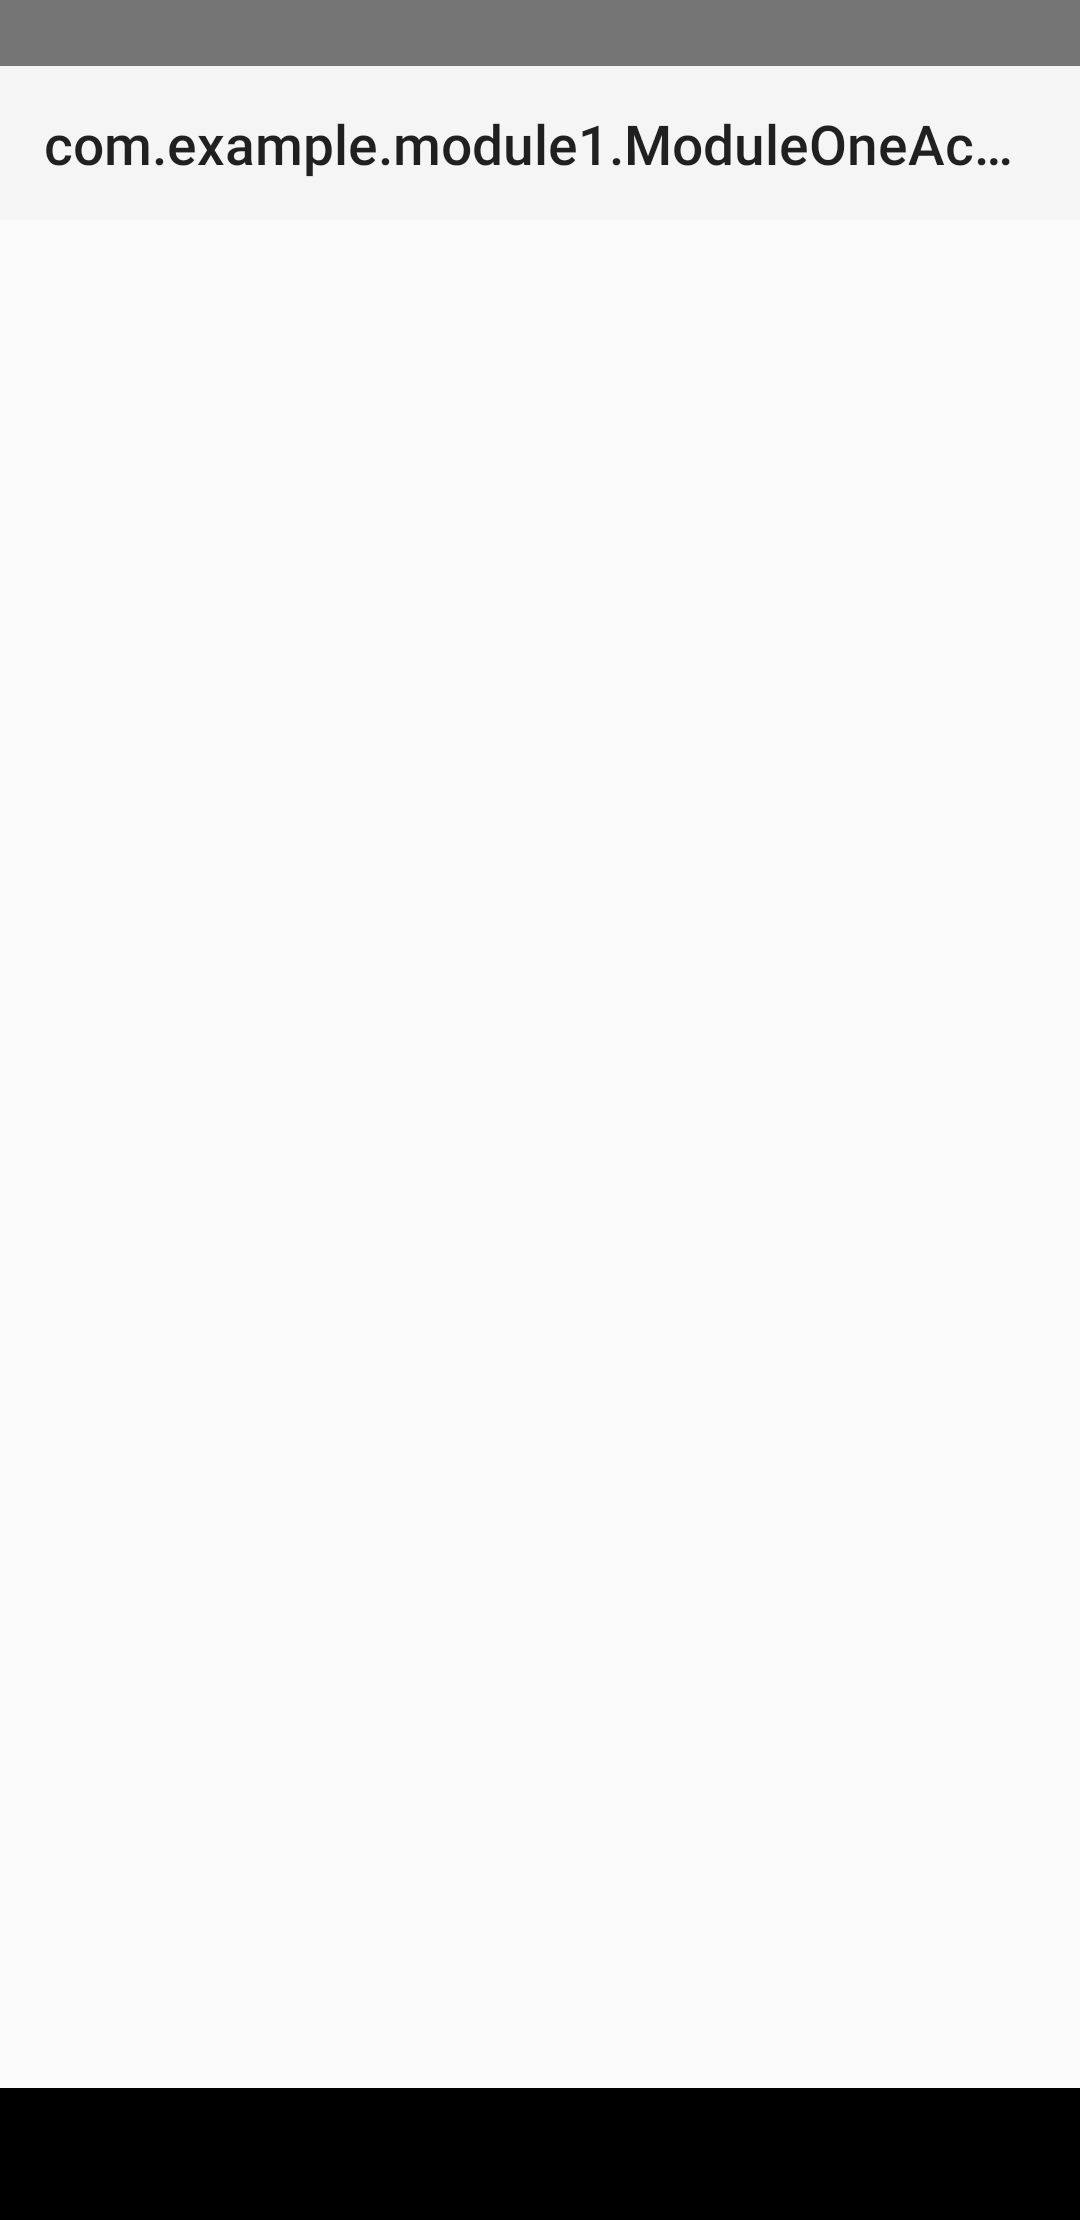
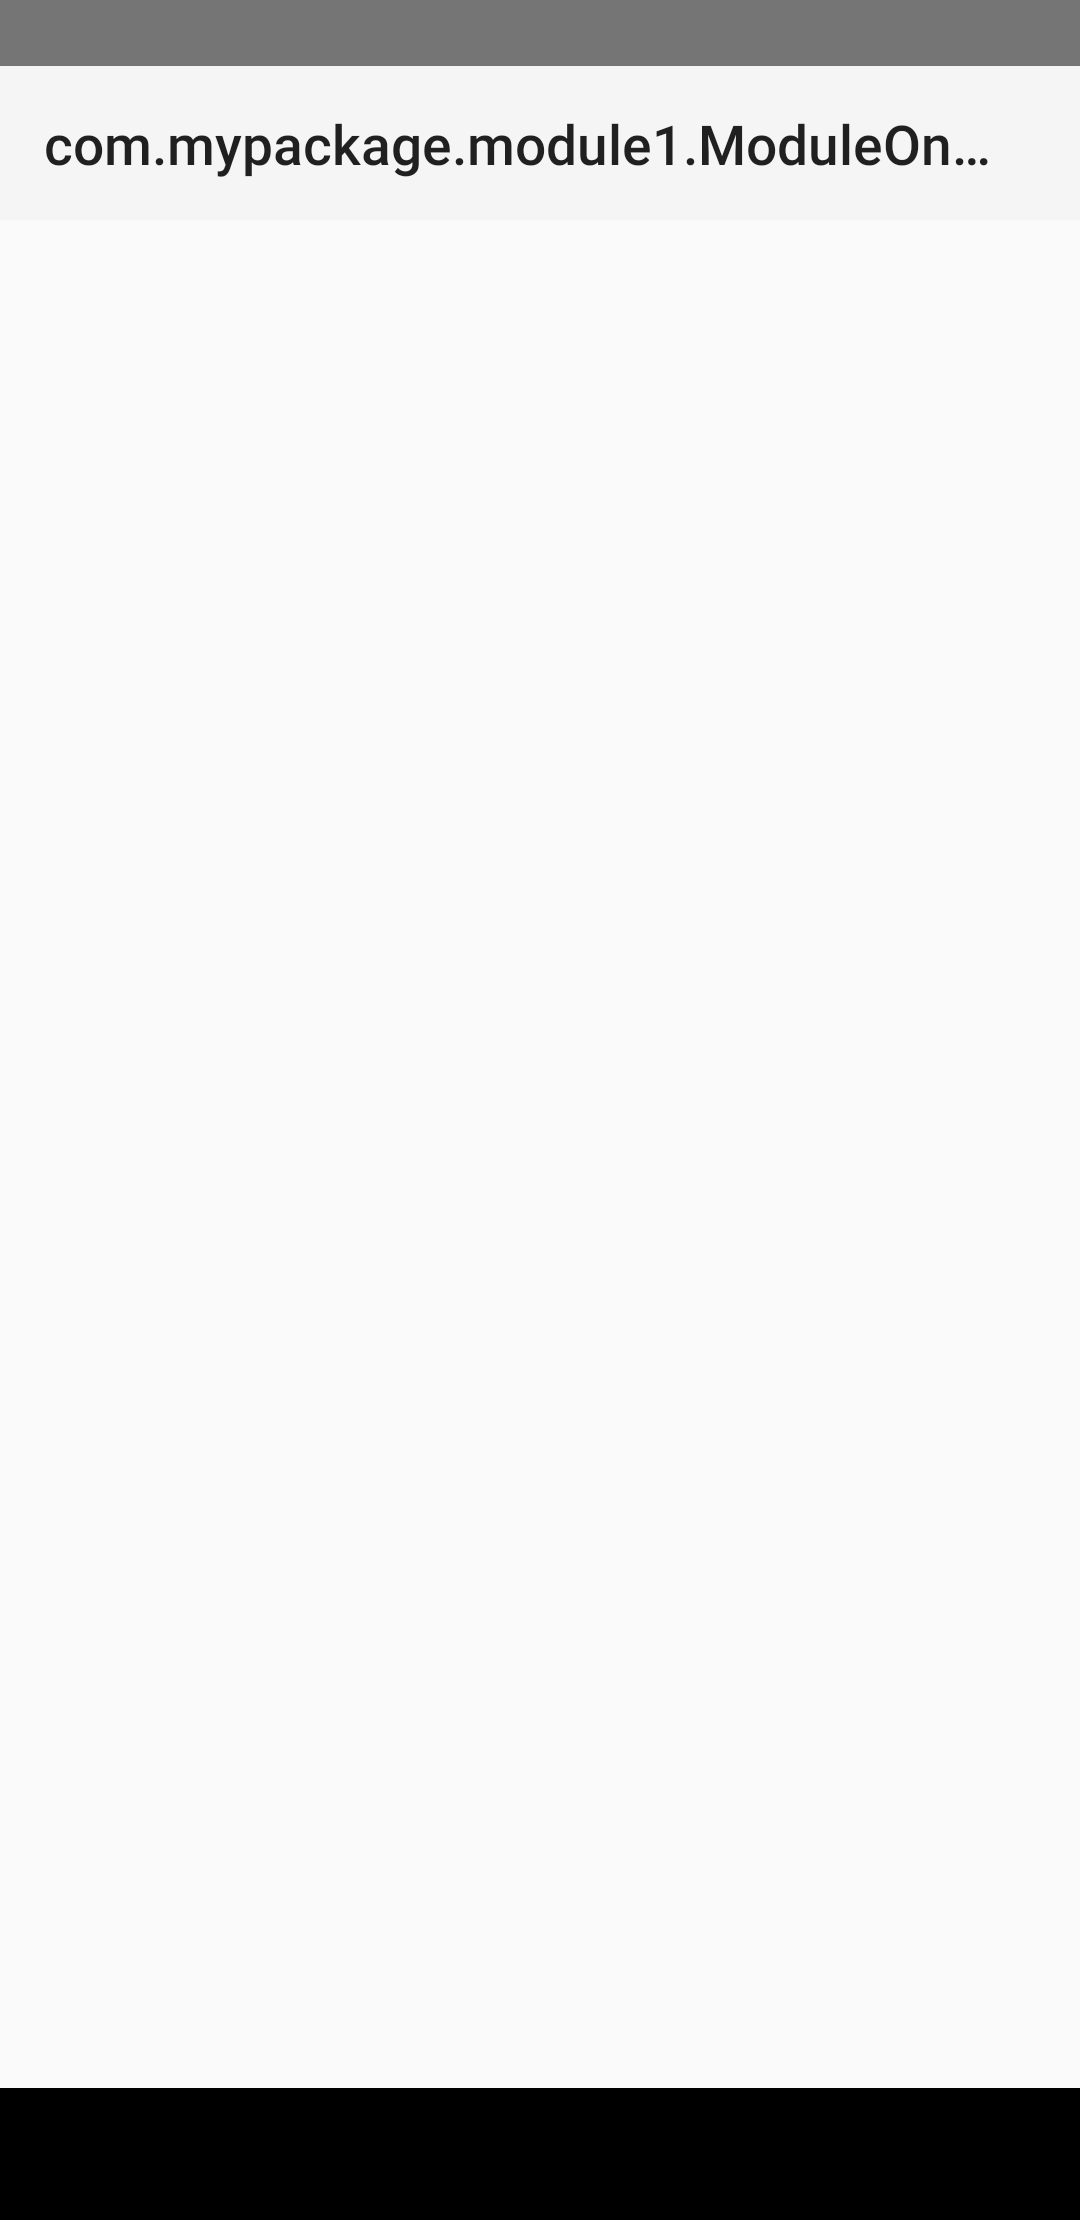
Rename to mypackage

Changed region(s): [[0.1528, 0.0311, 0.9167, 0.0932]]

diff --git a/app/src/androidTest/java/com/mypackage/mypackage/ExampleInstrumentedTest.kt b/app/src/androidTest/java/com/mypackage/mypackage/ExampleInstrumentedTest.kt
@@ -1,6 +1,7 @@
-package com.example.module1
+package com.mypackage.mypackage
 
 import androidx.test.ext.junit.runners.AndroidJUnit4
+import com.mypackage.MainActivity
 import dev.testify.ScreenshotRule
 import dev.testify.annotation.ScreenshotInstrumentation
 import org.junit.Assert.*
@@ -12,11 +13,11 @@ import org.junit.runner.RunWith
 class ExampleInstrumentedTest {
 
     @get:Rule
-    val rule = ScreenshotRule(ModuleOneActivity::class.java)
+    val rule = ScreenshotRule(MainActivity::class.java)
 
     @ScreenshotInstrumentation
     @Test
-    fun moduleOne() {
+    fun app() {
         rule.assertSame()
     }
 }

diff --git a/app/src/main/java/com/mypackage/MainActivity.kt b/app/src/main/java/com/mypackage/MainActivity.kt
@@ -1,4 +1,4 @@
-package com.example.android_mypackage
+package com.mypackage
 
 import android.os.Bundle
 import androidx.activity.ComponentActivity
@@ -10,7 +10,7 @@ import androidx.compose.material3.Text
 import androidx.compose.runtime.Composable
 import androidx.compose.ui.Modifier
 import androidx.compose.ui.tooling.preview.Preview
-import com.example.android_mypackage.ui.theme.AndroidmypackageTheme
+import com.mypackage.ui.theme.AndroidmypackageTheme
 
 class MainActivity : ComponentActivity() {
     override fun onCreate(savedInstanceState: Bundle?) {

diff --git a/appfeatures/module2/src/androidTest/java/com/mypackage/module2/ExampleInstrumentedTest.kt b/appfeatures/module2/src/androidTest/java/com/mypackage/module2/ExampleInstrumentedTest.kt
@@ -1,4 +1,4 @@
-package com.example.appfeatures
+package com.mypackage.module2
 
 import androidx.test.ext.junit.runners.AndroidJUnit4
 import dev.testify.ScreenshotRule
@@ -12,11 +12,11 @@ import org.junit.runner.RunWith
 class ExampleInstrumentedTest {
 
     @get:Rule
-    val rule = ScreenshotRule(AppFeatureActivity::class.java)
+    val rule = ScreenshotRule(ModuleTwoActivity::class.java)
 
     @ScreenshotInstrumentation
     @Test
-    fun appFeatures() {
+    fun moduleTwo() {
         rule.assertSame()
     }
 }

diff --git a/appfeatures/src/androidTest/java/com/mypackage/appfeatures/ExampleInstrumentedTest.kt b/appfeatures/src/androidTest/java/com/mypackage/appfeatures/ExampleInstrumentedTest.kt
@@ -1,4 +1,4 @@
-package com.example.module2
+package com.mypackage.appfeatures
 
 import androidx.test.ext.junit.runners.AndroidJUnit4
 import dev.testify.ScreenshotRule
@@ -12,11 +12,11 @@ import org.junit.runner.RunWith
 class ExampleInstrumentedTest {
 
     @get:Rule
-    val rule = ScreenshotRule(ModuleTwoActivity::class.java)
+    val rule = ScreenshotRule(AppFeatureActivity::class.java)
 
     @ScreenshotInstrumentation
     @Test
-    fun moduleTwo() {
+    fun appFeatures() {
         rule.assertSame()
     }
 }

diff --git a/appfeatures/module1/src/androidTest/java/com/mypackage/module1/ExampleInstrumentedTest.kt b/appfeatures/module1/src/androidTest/java/com/mypackage/module1/ExampleInstrumentedTest.kt
@@ -1,4 +1,4 @@
-package com.example.android_mypackage
+package com.mypackage.module1
 
 import androidx.test.ext.junit.runners.AndroidJUnit4
 import dev.testify.ScreenshotRule
@@ -12,11 +12,11 @@ import org.junit.runner.RunWith
 class ExampleInstrumentedTest {
 
     @get:Rule
-    val rule = ScreenshotRule(MainActivity::class.java)
+    val rule = ScreenshotRule(ModuleOneActivity::class.java)
 
     @ScreenshotInstrumentation
     @Test
-    fun app() {
+    fun moduleOne() {
         rule.assertSame()
     }
 }

diff --git a/appfeatures/module1/src/main/java/com/mypackage/module1/ModuleOneActivity.kt b/appfeatures/module1/src/main/java/com/mypackage/module1/ModuleOneActivity.kt
@@ -1,7 +1,7 @@
-package com.example.module1
+package com.mypackage.module1
 
-import androidx.appcompat.app.AppCompatActivity
 import android.os.Bundle
+import androidx.appcompat.app.AppCompatActivity
 
 class ModuleOneActivity : AppCompatActivity() {
     override fun onCreate(savedInstanceState: Bundle?) {

diff --git a/appfeatures/module2/src/main/java/com/mypackage/module2/ModuleTwoActivity.kt b/appfeatures/module2/src/main/java/com/mypackage/module2/ModuleTwoActivity.kt
@@ -1,7 +1,7 @@
-package com.example.module2
+package com.mypackage.module2
 
-import androidx.appcompat.app.AppCompatActivity
 import android.os.Bundle
+import androidx.appcompat.app.AppCompatActivity
 
 class ModuleTwoActivity : AppCompatActivity() {
     override fun onCreate(savedInstanceState: Bundle?) {

diff --git a/app/src/main/java/com/mypackage/ui/theme/Type.kt b/app/src/main/java/com/mypackage/ui/theme/Type.kt
@@ -1,4 +1,4 @@
-package com.example.android_mypackage.ui.theme
+package com.mypackage.ui.theme
 
 import androidx.compose.material3.Typography
 import androidx.compose.ui.text.TextStyle

diff --git a/appfeatures/src/main/java/com/mypackage/appfeatures/AppFeatureActivity.kt b/appfeatures/src/main/java/com/mypackage/appfeatures/AppFeatureActivity.kt
@@ -1,4 +1,4 @@
-package com.example.appfeatures
+package com.mypackage.appfeatures
 
 import androidx.appcompat.app.AppCompatActivity
 import android.os.Bundle

diff --git a/app/src/main/java/com/mypackage/ui/theme/Theme.kt b/app/src/main/java/com/mypackage/ui/theme/Theme.kt
@@ -1,4 +1,4 @@
-package com.example.android_mypackage.ui.theme
+package com.mypackage.ui.theme
 
 import android.app.Activity
 import android.os.Build

diff --git a/app/src/main/java/com/mypackage/ui/theme/Color.kt b/app/src/main/java/com/mypackage/ui/theme/Color.kt
@@ -1,4 +1,4 @@
-package com.example.android_mypackage.ui.theme
+package com.mypackage.ui.theme
 
 import androidx.compose.ui.graphics.Color
 
